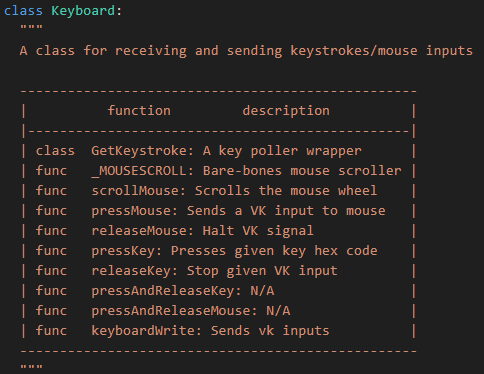
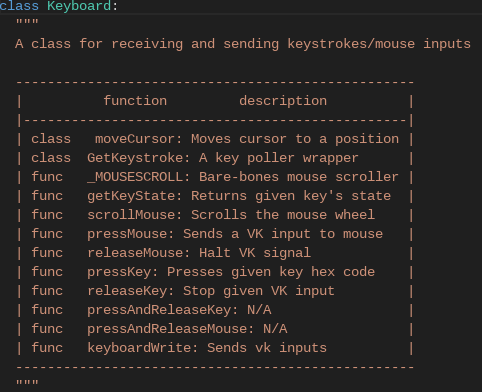
update keyboard doc-string

Changed region(s): [[0.0311, 0.2353, 0.8714, 0.9412], [0.0, 0.0, 0.9959, 0.1765], [0.0311, 0.9706, 0.0934, 1.0]]

diff --git a/source/py_key.py b/source/py_key.py
@@ -32,8 +32,7 @@ functions doc-string EX: output_path (str, optional)
 
 # TODO
 '''
-* Look over all functions, still...
-* Make sure doc-string up to date
+* Look over all functions, still... 
 * Add a move the mouse Into a certain point 
 Or like a certain coordinate function
 '''
@@ -46,9 +45,9 @@ class Keyboard:
   --------------------------------------------------
   |          function         description          |
   |------------------------------------------------|
+  | class   moveCursor: Moves cursor to a position |
   | class  GetKeystroke: A key poller wrapper      |
   | func   _MOUSESCROLL: Bare-bones mouse scroller |
-  | func   moveCursor: ........
   | func   getKeyState: Returns given key's state  |
   | func   scrollMouse: Scrolls the mouse wheel    |
   | func   pressMouse: Sends a VK input to mouse   |
@@ -341,10 +340,10 @@ class Keyboard:
       setPosition(x, y): Moves the cursor to the given x and y coordinates
     """
     def getPosition() -> tuple:
-      return ctypes.windll.user32.GetCursorPos()
+      return Keyboard._Vars.user32.GetCursorPos()
 
     def setPosition(x: int, y: int) -> None:
-      ctypes.windll.user32.SetCursorPos(x, y)
+      Keyboard._Vars.user32.SetCursorPos(x, y)
 
   class GetKeystroke:
     """
@@ -418,7 +417,7 @@ class Keyboard:
   # Functions (most people will only use these)
 
   @staticmethod
-  def moveCursor(x: int, y: int):
+  def moveCursor(x: int, y: int) -> None:
     """
     Moves the cursor to a specific coordinate on the screen.
 
